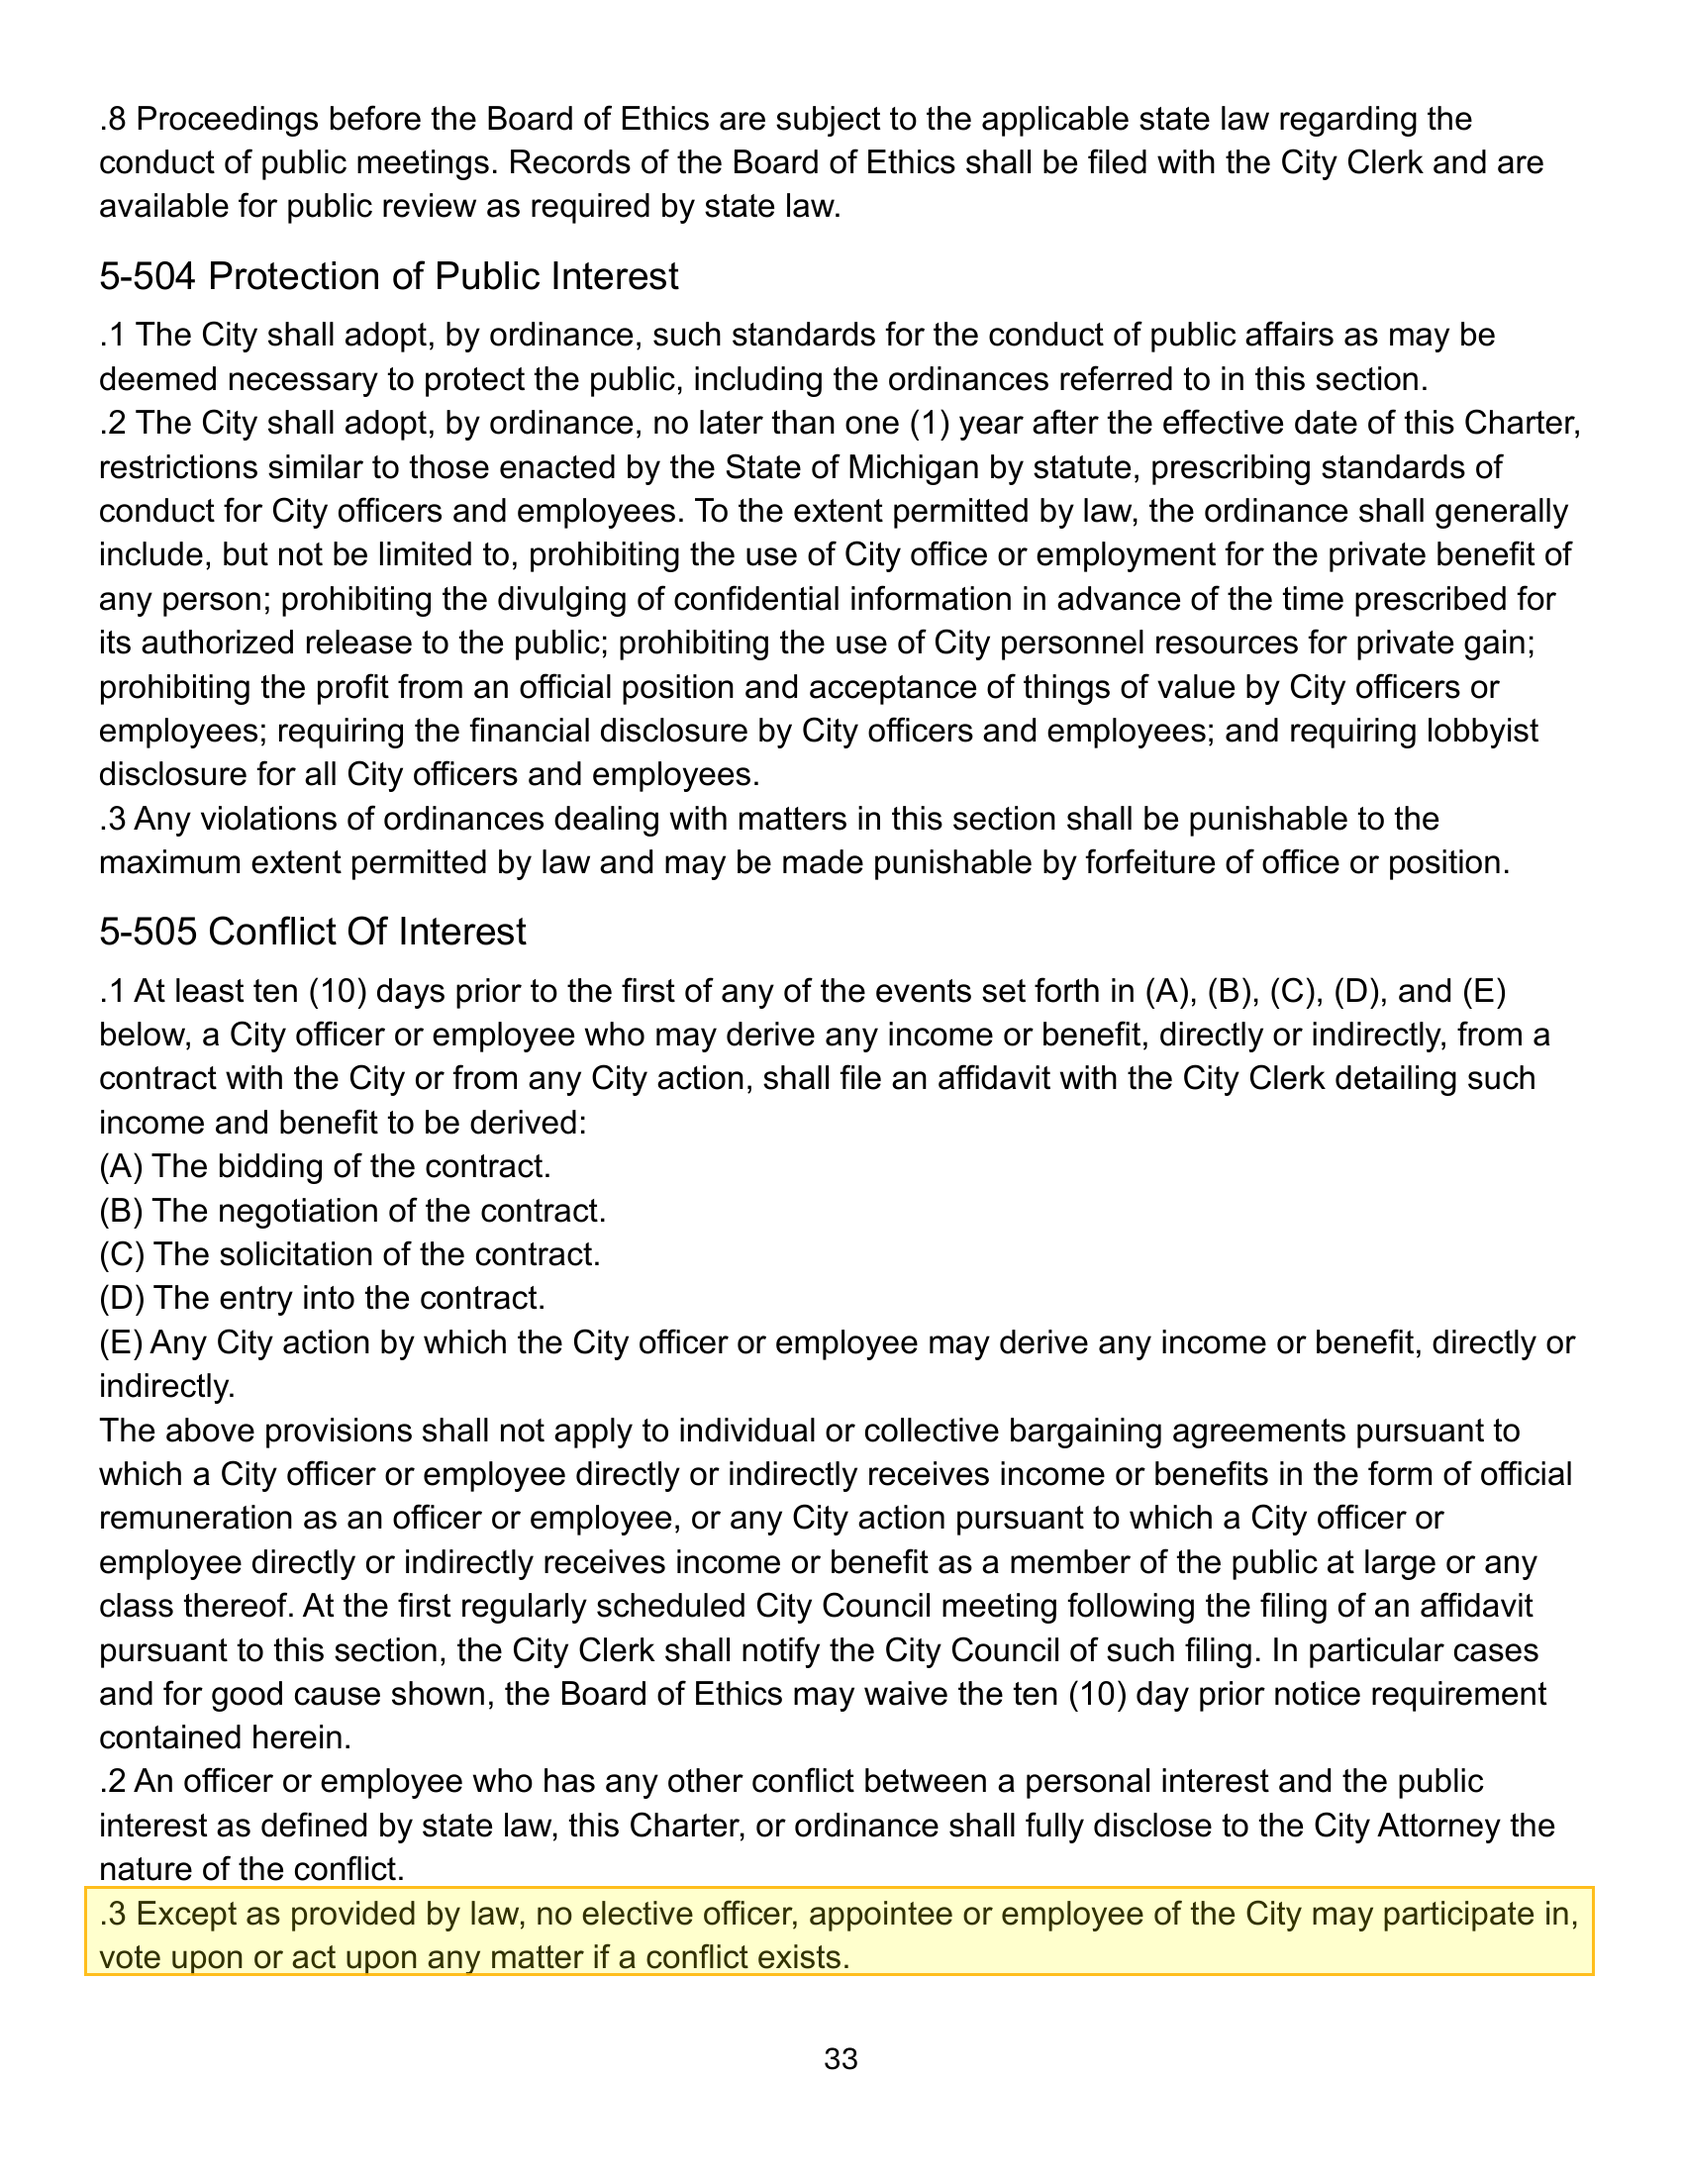
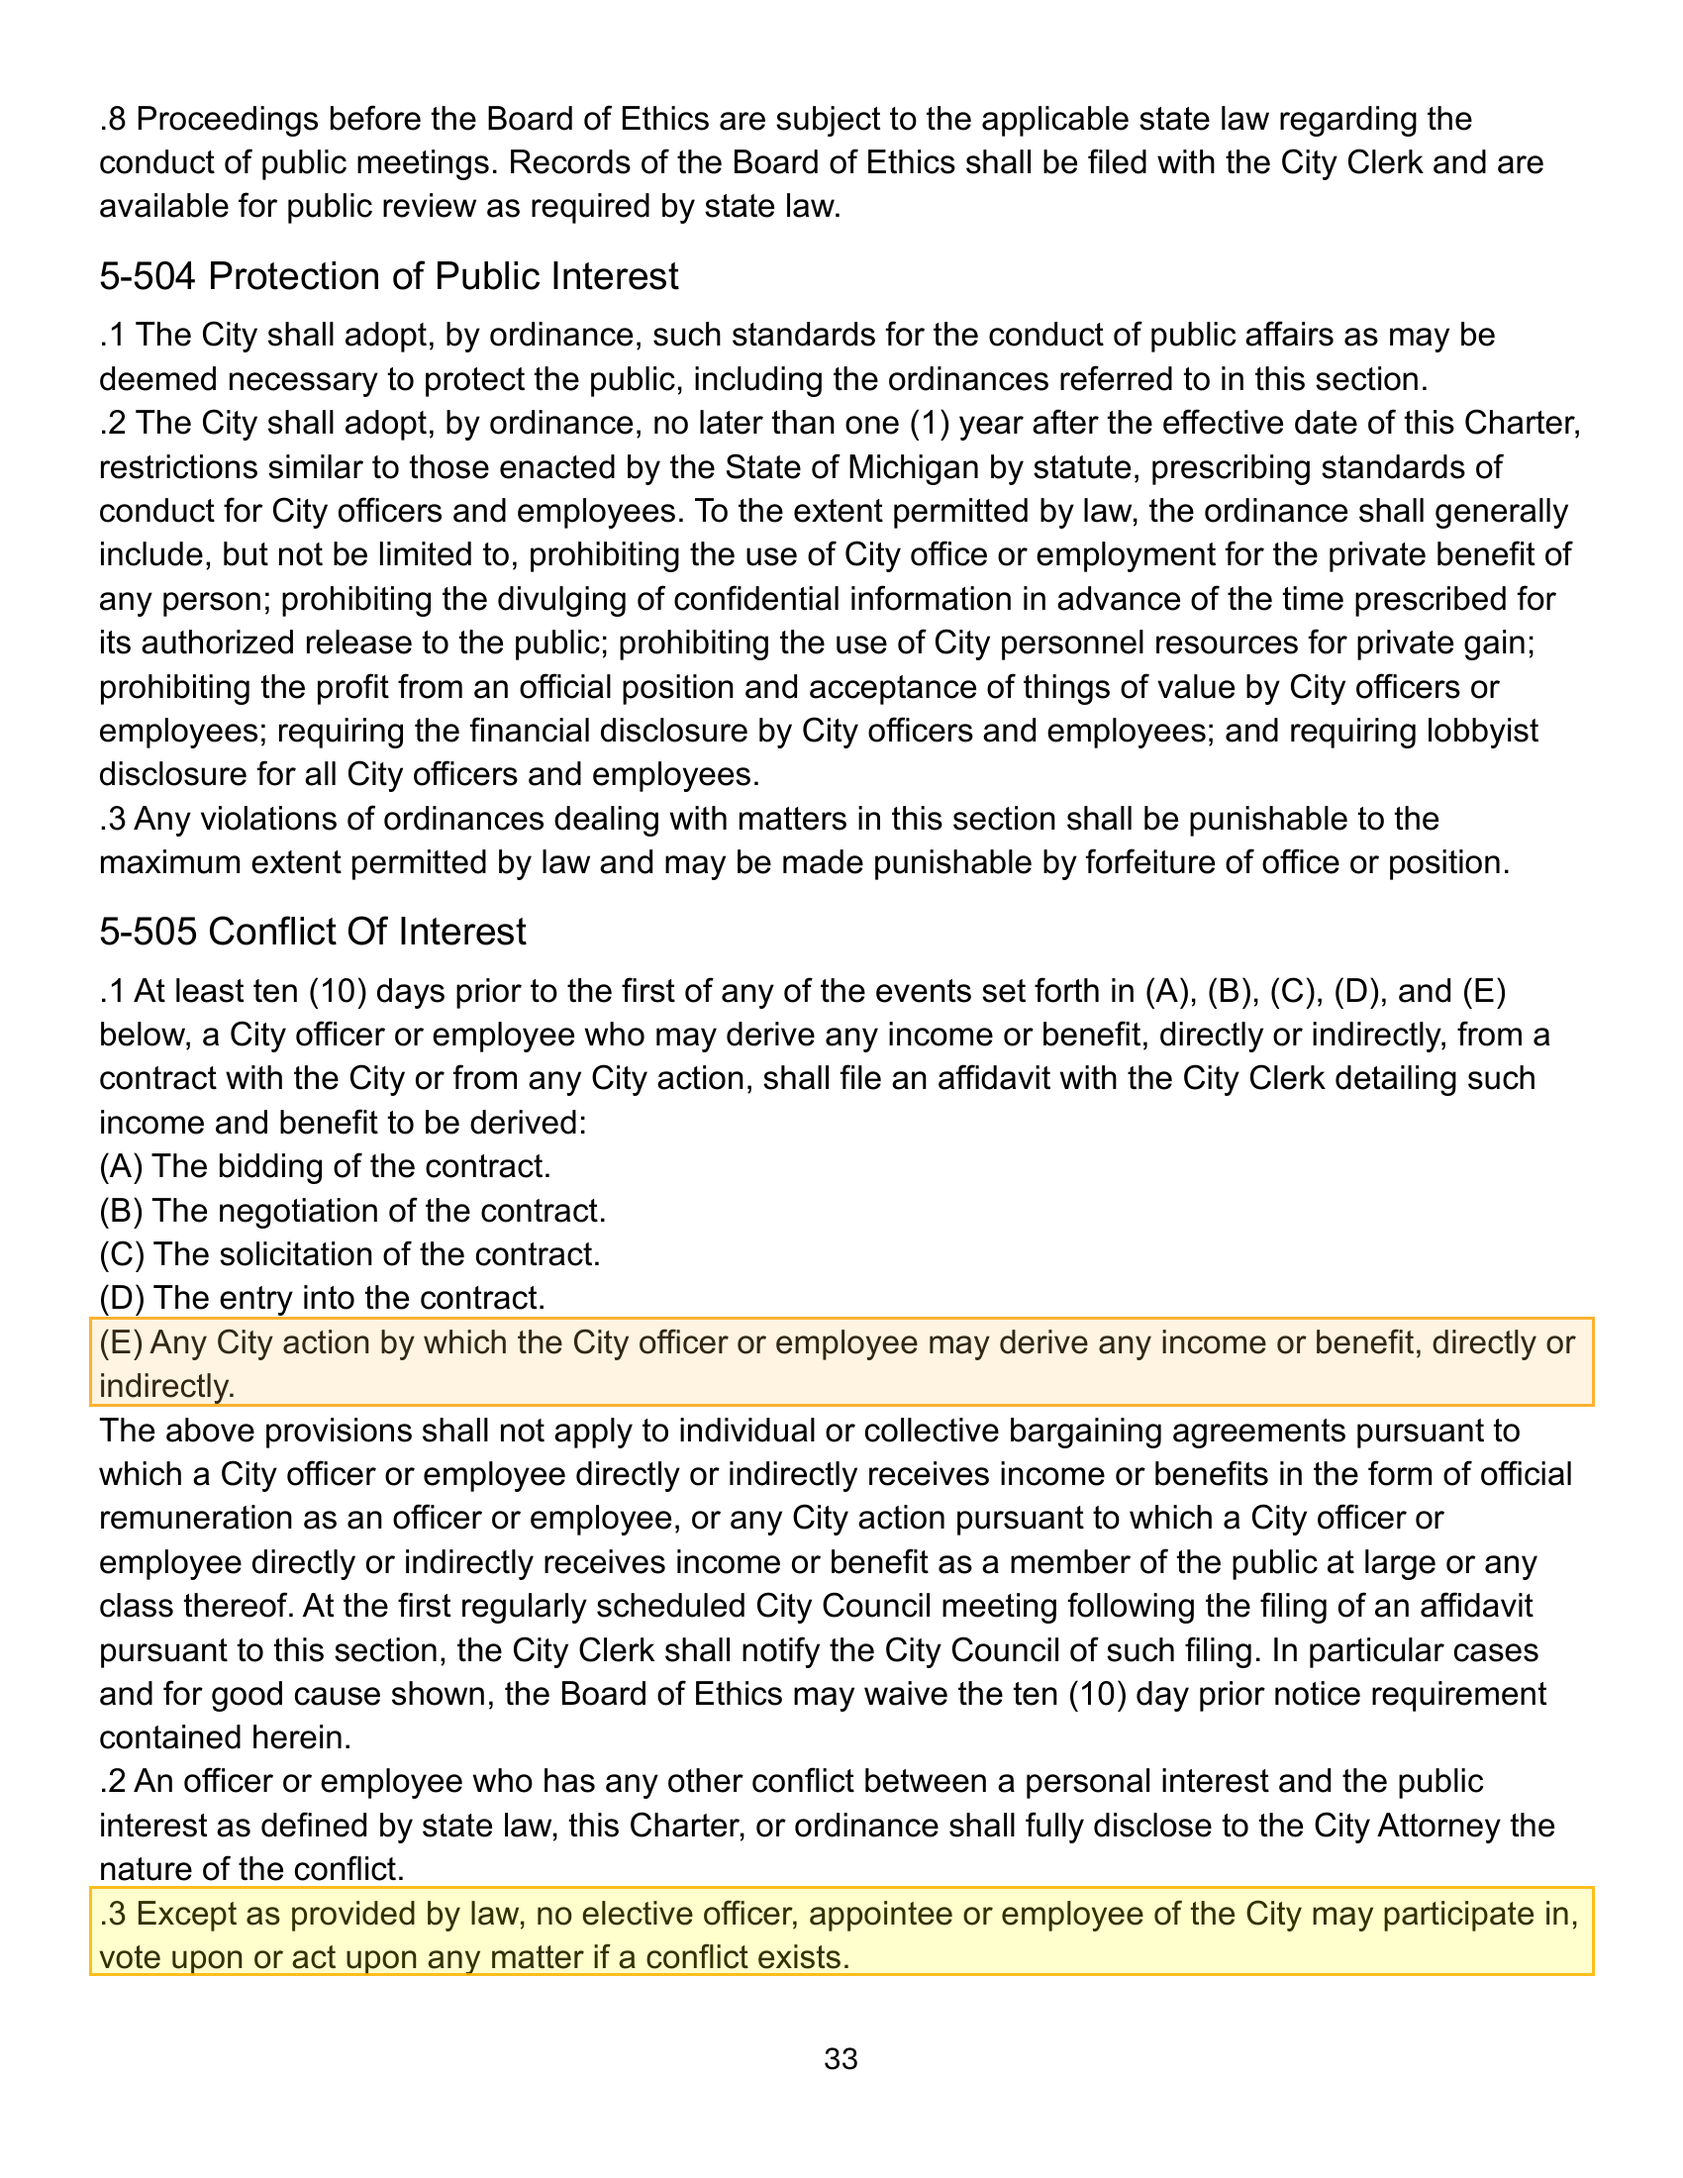
Add 5-505.1(E) connection, rename section, dual highlights on screenshot

Changed region(s): [[0.0312, 0.5873, 0.9665, 0.6491], [0.0312, 0.8655, 0.0624, 0.8964]]

diff --git a/posts/deep-green-vote-math.html b/posts/deep-green-vote-math.html
@@ -29,9 +29,20 @@
 
 <p>The Charter prohibits Council members from voting on questions where they hold a financial interest. If Garza were found to have one and could not vote, the project's maximum possible yes count would drop to five, and the sale would not pass.</p>
 
-<h2>The Prohibition</h2>
+<h2>What the Charter Says About Conflicts</h2>
 
-<p><a href="https://content.civicplus.com/api/assets/4ee3747d-174d-4eec-9ef6-ab1b900b97dc">Section 5-505.3</a> of the Lansing City Charter:</p>
+<p><a href="https://content.civicplus.com/api/assets/4ee3747d-174d-4eec-9ef6-ab1b900b97dc">Section 5-505</a> of the Lansing City Charter defines when a conflict of interest exists and what happens when it does.</p>
+
+<p>Under <a href="https://content.civicplus.com/api/assets/4ee3747d-174d-4eec-9ef6-ab1b900b97dc">Section 5-505.1</a>, a city officer who "may derive any income or benefit, directly or indirectly, from a contract with the City or from any City action" must file an affidavit with the City Clerk at least ten days before the action. Subsection (E) specifies one of the triggering events:</p>
+
+<blockquote>
+<p>"(E) Any City action by which the City officer or employee may derive any income or benefit, directly or indirectly."</p>
+<cite>Lansing City Charter, <a href="https://content.civicplus.com/api/assets/4ee3747d-174d-4eec-9ef6-ab1b900b97dc">Section 5-505.1(E)</a>, charter page 33.</cite>
+</blockquote>
+
+<p>The land sale is a City action. If it leads to union construction jobs and a long-term maintenance contract, the VP of that union derives benefit indirectly.</p>
+
+<p><a href="https://content.civicplus.com/api/assets/4ee3747d-174d-4eec-9ef6-ab1b900b97dc">Section 5-505.3</a> states what follows:</p>
 
 <blockquote>
 <p>"Except as provided by law, no elective officer, appointee or employee of the City may participate in, vote upon or act upon any matter if a conflict exists."</p>
@@ -39,11 +50,9 @@
 </blockquote>
 
 <figure>
-<img src="../img/charter-conflict-prohibition-highlighted.png" alt="Lansing City Charter, Sections 5-504 and 5-505. Subsection 5-505.3 is highlighted: Except as provided by law, no elective officer, appointee or employee of the City may participate in, vote upon or act upon any matter if a conflict exists.">
-<figcaption>Lansing City Charter, Section 5-505. Source: <a href="https://content.civicplus.com/api/assets/4ee3747d-174d-4eec-9ef6-ab1b900b97dc">City of Lansing</a>, adopted Nov. 4, 2025.</figcaption>
+<img src="../img/charter-conflict-prohibition-highlighted.png" alt="Lansing City Charter, Section 5-505 Conflict of Interest. Subsection (E) is highlighted in orange: Any City action by which the City officer or employee may derive any income or benefit, directly or indirectly. Subsection .3 is highlighted in yellow: Except as provided by law, no elective officer, appointee or employee of the City may participate in, vote upon or act upon any matter if a conflict exists.">
+<figcaption>Lansing City Charter, Section 5-505. Subsection (E) and .3 highlighted. Source: <a href="https://content.civicplus.com/api/assets/4ee3747d-174d-4eec-9ef6-ab1b900b97dc">City of Lansing</a>, adopted Nov. 4, 2025.</figcaption>
 </figure>
-
-<p>This provision does not describe a process. It does not say "may be asked to recuse" or "shall be excused by a vote of colleagues." It says an officer with a conflict may not participate. The preceding subsection, <a href="https://content.civicplus.com/api/assets/4ee3747d-174d-4eec-9ef6-ab1b900b97dc">5-505.1</a>, requires any city officer who "may derive any income or benefit, directly or indirectly, from a contract with the City or from any City action" to file an affidavit with the City Clerk at least ten days before the action.</p>
 
 <h2>The Supermajority</h2>
 
